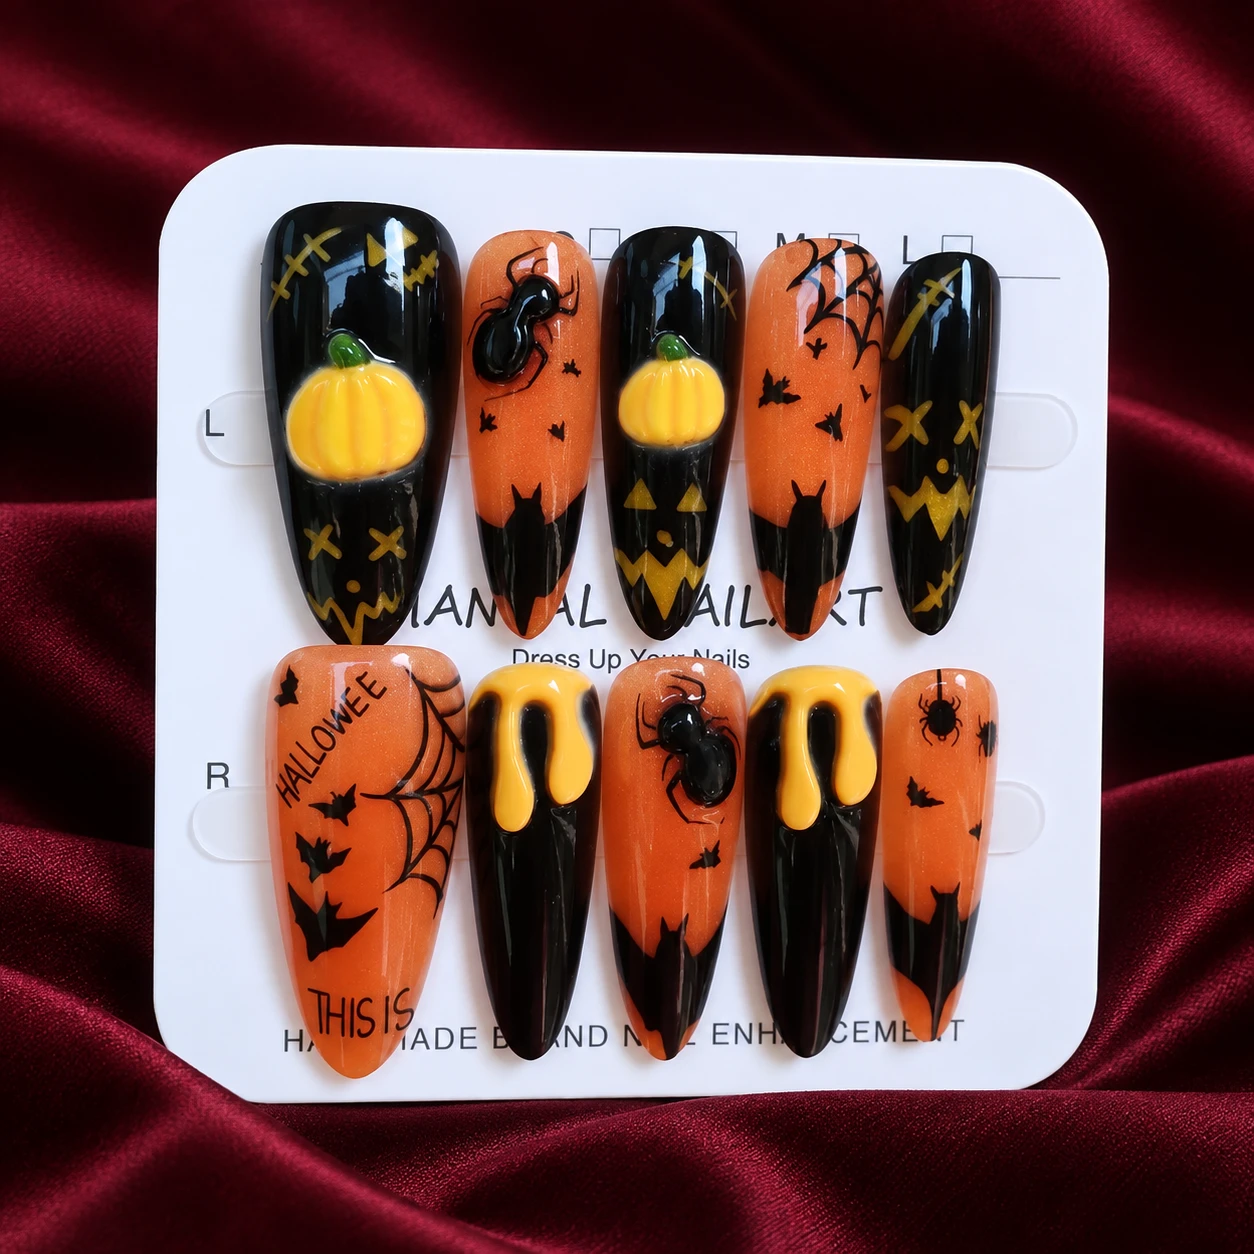
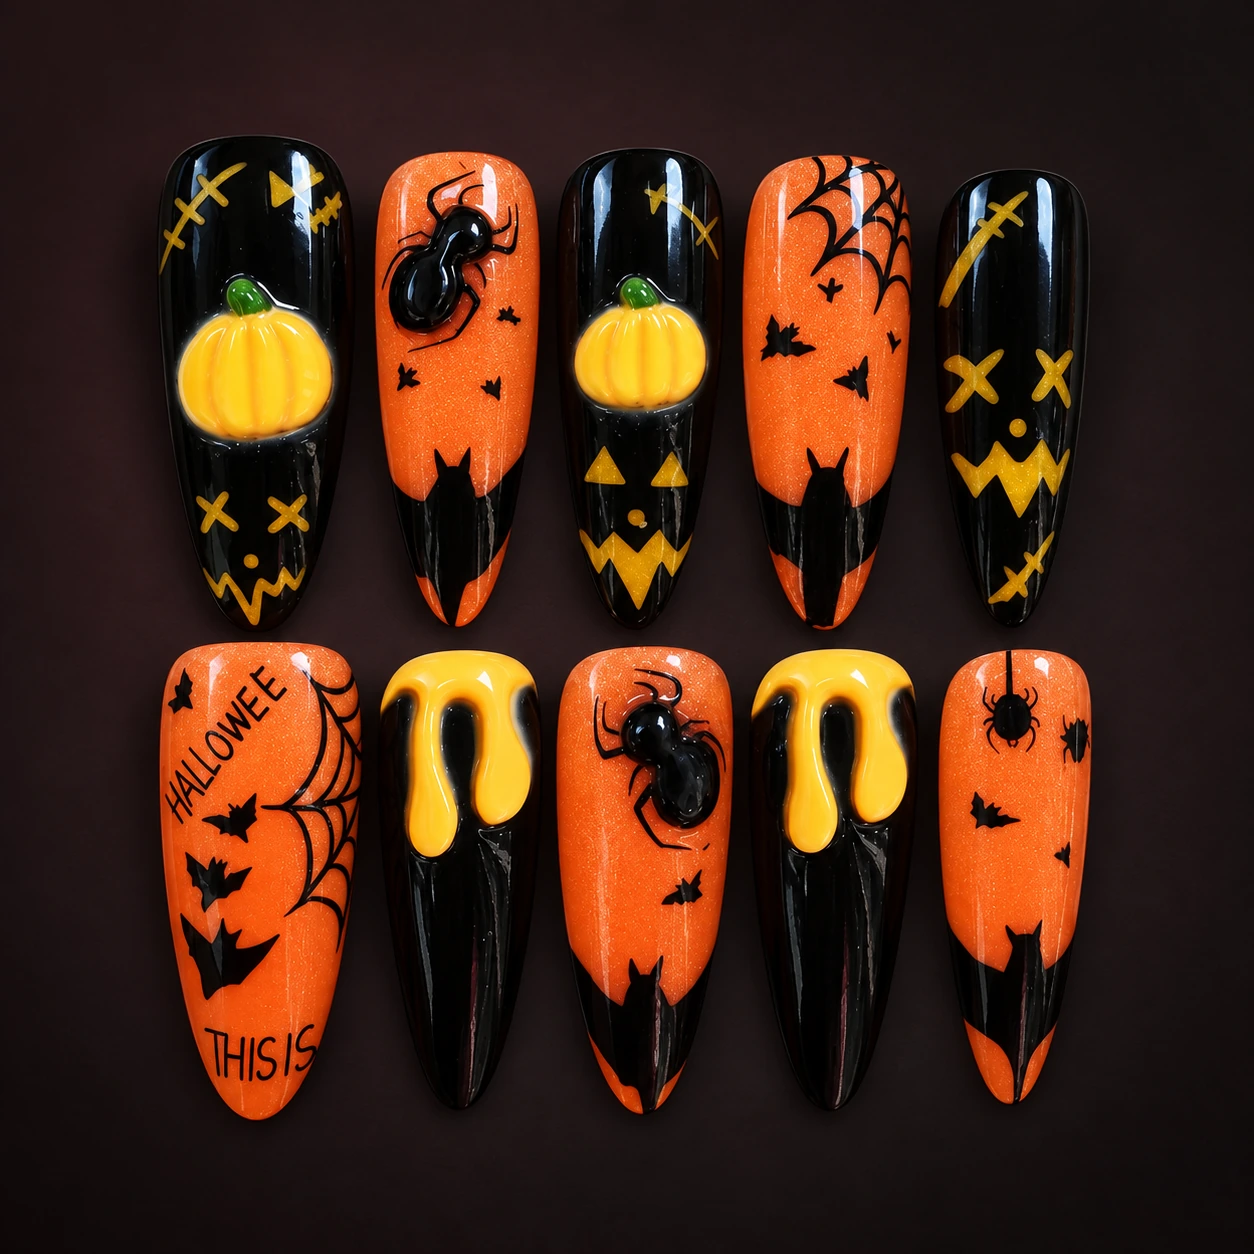
Publish cohesive Halloween storefront and personalized product copy

diff --git a/app/halloween.css b/app/halloween.css
@@ -174,3 +174,22 @@ body .ht-cart__empty h3 { font-size: 25px; line-height: 1.35; }
   :root body .mood-tabs { gap: 8px; }
   :root body .mood-tabs > button { font-size: 12px; padding-inline: 13px; }
 }
+/* Consistent studio product presentation across the entire catalog. */
+:root body .product-card .product-card-image { aspect-ratio: 1; border-radius: 4px; background: #171416; overflow: hidden; }
+:root body .product-card .product-card-image img { width: 100%; height: 100%; object-fit: contain; object-position: center; }
+body .hero-photo { object-position: center; }
+body .hero-shade { background: linear-gradient(90deg, rgba(15,12,14,.28), transparent 72%); }
+body .hero-photo-mobile { display: none; }
+@media (max-width: 700px) {
+  body .hero-photo { display: none; }
+  body .hero-photo-mobile { display: block; position: absolute; inset: 0; width: 100%; height: 100%; object-fit: cover; object-position: center; }
+  body .hero-shade { background: linear-gradient(0deg, rgba(15,12,14,.96), rgba(15,12,14,.46) 65%, rgba(15,12,14,.1)); }
+}
+@media (max-width: 700px) {
+  body .hero { min-height: 0; }
+  body .hero-photo-mobile { position: relative; inset: auto; height: clamp(260px, 68vw, 440px); width: 100%; object-fit: contain; }
+  body .hero-shade, body .hero-charms { display: none; }
+  body .hero-inner { min-height: 0; padding-top: 24px; padding-bottom: 86px; }
+  body .hero-copy { width: 100%; max-width: none; }
+  body .hero h1 { font-size: clamp(31px, 6.5vw, 44px); margin: 0; line-height: 1.2; }
+}

diff --git a/app/page.tsx b/app/page.tsx
@@ -21,7 +21,7 @@ const edits: {
     copy: "For the romantics with a little edge.",
     className: "romance",
     image: "/images/products/haunted-tips-noir-halo-styled.webp",
-    alt: "Noir Halo black almond nails with silver-toned stud borders on burgundy satin; AI-styled product photograph",
+    alt: "Noir Halo black almond nails with silver-toned stud borders on a charcoal studio background; AI-styled product photograph",
   },
   {
     mood: "Little Frights",
@@ -48,12 +48,13 @@ export default async function HomePage() {
       <section className="hero" aria-labelledby="hero-heading">
         <Image
           className="hero-photo"
-          src="/images/products/haunted-tips-night-crawlers-styled.webp"
-          alt="Night Crawlers black and ivory nails with insects, centipedes and skeletal artwork on burgundy satin; AI-styled product photograph"
+          src="/images/haunted-hero-v2.webp"
+          alt="Copper Coven orange and black Halloween nails on a clean charcoal studio background; AI-styled product photograph"
           fill
           priority
           sizes="100vw"
         />
+        <Image className="hero-photo-mobile" src="/images/products/haunted-tips-copper-coven-styled.webp" alt="Copper Coven orange and black pumpkin nails; AI-styled product photograph" width={1024} height={1024} sizes="100vw" />
         <div className="hero-shade" />
         <div className="hero-charms" aria-hidden="true">
           <span className="hero-charm hero-charm--star">✧</span>

diff --git a/shopify/assets/ht-halloween-display.css b/shopify/assets/ht-halloween-display.css
@@ -251,3 +251,20 @@ html.ht-motion-paused .ht-hero__photo { animation: none; }
   body .ht-revealed, body .ht-hero__photo, body .ht-hero__copy > :is(h1, p, a) { animation: none; opacity: 1; transform: none; }
   body :is(.ht-card__media, .ht-mood__photo, .ht-story__photo, .ht-guide-teaser__photo) img { transition: none; transform: none; }
 }
+/* Every catalog card shares the same studio frame and uncropped image area. */
+:root body .ht-card .ht-card__media { aspect-ratio: 1; border-radius: 4px; background: #171416; overflow: hidden; }
+:root body .ht-card .ht-card__media img { width: 100%; height: 100%; object-fit: contain; object-position: center; }
+body .ht-hero__photo { object-position: center; }
+body .ht-hero__shade { background: linear-gradient(90deg, rgba(15,12,14,.28), transparent 72%); }
+@media (max-width: 700px) {
+  body .ht-hero__shade { background: linear-gradient(0deg, rgba(15,12,14,.96), rgba(15,12,14,.46) 65%, rgba(15,12,14,.1)); }
+}
+@media (max-width: 749px) {
+  body .ht-hero { min-height: 0; }
+  body .ht-hero__photo { position: relative; inset: auto; display: block; height: clamp(260px, 68vw, 440px); width: 100%; object-fit: contain; }
+  body .ht-hero__shade, body .ht-charms { display: none; }
+  body .ht-hero__inner { min-height: 0; padding-top: 24px; padding-bottom: 86px; }
+  body .ht-hero__copy { width: 100%; max-width: none; }
+  body .ht-hero h1 { font-size: clamp(31px, 6.5vw, 44px); margin: 0; line-height: 1.2; }
+  body .ht-hero__intro { max-width: 440px; }
+}

diff --git a/components/cart.tsx b/components/cart.tsx
@@ -393,7 +393,6 @@ export function AddToCart({ product }: { product: Product }) {
         {(product.variants?.length ?? 0) > 1 ? "Choose your size" : "View options & add to bag"}
         <ShoppingBag size={18} aria-hidden="true" />
       </a> : <button type="button" className="ht-add__button" disabled>Currently unavailable</button>}
-      {nativeShopify.bogoVerified && <p className="ht-add__note"><strong>{nativeShopify.offerTitle}.</strong> {nativeShopify.offerDetails}</p>}
       <p className="ht-add__note">Your selection opens in Shopify, where current stock, pricing and delivery are checked.</p>
       {!nativeShopify.paymentsEnabled && <p className="ht-add__note" role="status">{nativeShopify.setupNotice}</p>}
     </div>;

diff --git a/components/header.tsx b/components/header.tsx
@@ -64,7 +64,7 @@ export function Header() {
   return (
     <>
       <div className="announcement">
-        <span aria-hidden="true">✧</span> {nativeShopify.bogoVerified ? `${nativeShopify.offerTitle} · add two eligible sets` : "Wicked nails. Sweet screams."}{" "}
+        <span aria-hidden="true">✧</span> {nativeShopify.announcement}{" "}
         <span aria-hidden="true">✧</span>
       </div>
       <header className="site-header">
